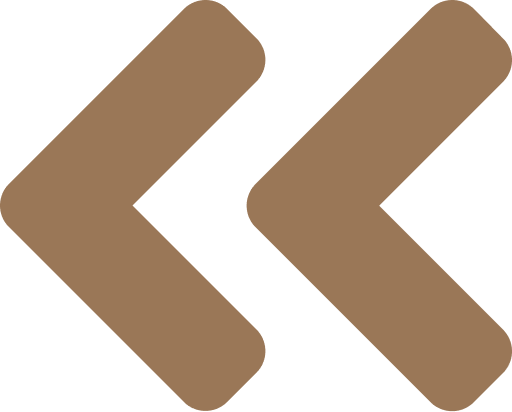
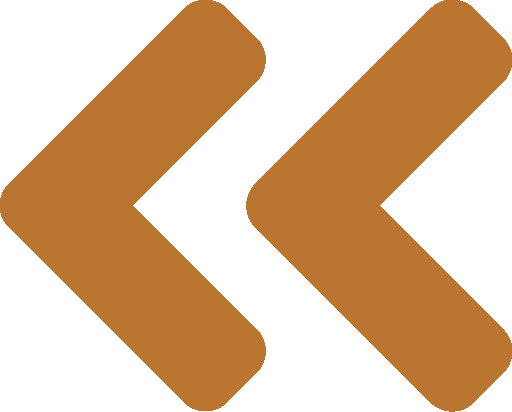
Refactoring colors and similars

diff --git a/index.html b/index.html
@@ -156,52 +156,54 @@
                         alt="Psicólogos do consultório Acolher">
                 </div>
             </div>
-            <div class="skill-description-container">
-                <h2>Depressão</h2>
-                <div class="skill-description">
-                    <p>
-                        Lorem ipsum dolor sit amet consectetur adipisicing elit. Sequi excepturi distinctio incidunt
-                        esse
-                        eaque, nam nihil aut, mollitia eos in nostrum assumenda explicabo cupiditate vero corrupti
-                        eveniet
-                        porro aperiam culpa.
-                    </p>
+            <div class="skills-main-container">
+                <div class="skill-description-container">
+                    <h2>Depressão</h2>
+                    <div class="skill-description">
+                        <p>
+                            Lorem ipsum dolor sit amet consectetur adipisicing elit. Sequi excepturi distinctio incidunt
+                            esse
+                            eaque, nam nihil aut, mollitia eos in nostrum assumenda explicabo cupiditate vero corrupti
+                            eveniet
+                            porro aperiam culpa.
+                        </p>
+                    </div>
                 </div>
-            </div>
-            <div class="skill-description-container">
-                <h2>Ansiedade</h2>
-                <div class="skill-description">
-                    <p>
-                        Lorem ipsum dolor sit amet consectetur adipisicing elit. Sequi excepturi distinctio incidunt
-                        esse
-                        eaque, nam nihil aut, mollitia eos in nostrum assumenda explicabo cupiditate vero corrupti
-                        eveniet
-                        porro aperiam culpa.
-                    </p>
+                <div class="skill-description-container">
+                    <h2>Ansiedade</h2>
+                    <div class="skill-description">
+                        <p>
+                            Lorem ipsum dolor sit amet consectetur adipisicing elit. Sequi excepturi distinctio incidunt
+                            esse
+                            eaque, nam nihil aut, mollitia eos in nostrum assumenda explicabo cupiditate vero corrupti
+                            eveniet
+                            porro aperiam culpa.
+                        </p>
+                    </div>
                 </div>
-            </div>
-            <div class="skill-description-container">
-                <h2>Pânico</h2>
-                <div class="skill-description">
-                    <p>
-                        Lorem ipsum dolor sit amet consectetur adipisicing elit. Sequi excepturi distinctio incidunt
-                        esse
-                        eaque, nam nihil aut, mollitia eos in nostrum assumenda explicabo cupiditate vero corrupti
-                        eveniet
-                        porro aperiam culpa.
-                    </p>
+                <div class="skill-description-container">
+                    <h2>Pânico</h2>
+                    <div class="skill-description">
+                        <p>
+                            Lorem ipsum dolor sit amet consectetur adipisicing elit. Sequi excepturi distinctio incidunt
+                            esse
+                            eaque, nam nihil aut, mollitia eos in nostrum assumenda explicabo cupiditate vero corrupti
+                            eveniet
+                            porro aperiam culpa.
+                        </p>
+                    </div>
                 </div>
-            </div>
-            <div class="skill-description-container">
-                <h2>Depressão</h2>
-                <div class="skill-description">
-                    <p>
-                        Lorem ipsum dolor sit amet consectetur adipisicing elit. Sequi excepturi distinctio incidunt
-                        esse
-                        eaque, nam nihil aut, mollitia eos in nostrum assumenda explicabo cupiditate vero corrupti
-                        eveniet
-                        porro aperiam culpa.
-                    </p>
+                <div class="skill-description-container">
+                    <h2>Depressão</h2>
+                    <div class="skill-description">
+                        <p>
+                            Lorem ipsum dolor sit amet consectetur adipisicing elit. Sequi excepturi distinctio incidunt
+                            esse
+                            eaque, nam nihil aut, mollitia eos in nostrum assumenda explicabo cupiditate vero corrupti
+                            eveniet
+                            porro aperiam culpa.
+                        </p>
+                    </div>
                 </div>
             </div>
         </div>

diff --git a/assets/css/global.css b/assets/css/global.css
@@ -15,13 +15,13 @@ a{
     --main-dimension-img: 30.8rem;
     
     /* Main colors */
-    --dark-tone: #9A7757;
-    --medium-tone: #E0CFB5;
-    --light-tone: #E6DAC8;
+    --dark-tone: #BA7530;/*#9A7757;*/
+    --medium-tone: #FFE599;
+    --light-tone: #F8EBAF;
     --lightness-tone: #FFFFFF;
 
     /* Border colors */
-    --dark-border: #9A7757;
+    --dark-border: #BA7530;
     --light-border: #C1C1C1;
 }
 
@@ -99,7 +99,7 @@ section{
     background-position: 14% 76%;
     width: 30.8rem;
     height: 30.8rem;
-    border: 0.8rem solid var(--dark-border);
+    border: 0.4rem solid var(--dark-border);
     border-radius: 50%;
 }
 
@@ -143,9 +143,8 @@ header, footer{
 header{
     position: fixed;
     top: 0;
-    background: linear-gradient(90deg,var(--dark-tone) 0%, var(--medium-tone) 85%);
+    background: linear-gradient(90deg,var(--dark-tone) 0%, var(--light-tone) 85%);
     z-index: 1000;
-    /* filter: saturate(2.2); */
 }    
 
 .logo-header{
@@ -165,7 +164,7 @@ header{
 
 /* Footer section */
 footer{
-    background: linear-gradient(90deg,var(--light-tone) 0%, var(--dark-tone) 100%);
+    background: linear-gradient(90deg,var(--light-tone) 0%, var(--dark-tone) 85%);
 }        
 
 .logo-footer{
@@ -284,7 +283,7 @@ nav ul li:hover{
 .about-us-img{
     width: 26rem;
     height: 26rem;
-    border: 0.8rem solid var(--dark-border);
+    border: 0.3rem solid var(--dark-border);
     border-radius: 50%;
 }
 
@@ -307,7 +306,7 @@ nav ul li:hover{
     width: 30.8rem;
     background-color: var(--light-tone);
     padding: 2rem 1rem 1rem;
-    border: 0.4rem solid var(--lightness-tone);
+    border: 0.3rem solid var(--dark-tone);
     border-radius: 2rem;
     overflow: hidden;
 }
@@ -349,7 +348,7 @@ nav ul li:hover{
 
 .slider-controls{
     display: flex;
-    border: 0.2rem solid var(--dark-border);
+    border: 0.3rem solid var(--dark-border);
     border-radius: 1.8rem;
     width: 11rem;
     height: 3rem;
@@ -381,6 +380,8 @@ nav ul li:hover{
     display: grid;
     grid-template-columns: repeat(3, 1fr);
     grid-template-rows: repeat(3, 1fr);
+    justify-items: center;
+    align-items: center;
     height: 29.5rem;
     position: relative;
 }
@@ -388,7 +389,7 @@ nav ul li:hover{
 .feeling-img{
     width: 9.7rem;
     height: 9.7rem;
-    border: 0.4rem solid var(--light-border);
+    border: 0.4rem solid var(--medium-tone);
     border-radius: 50%;
 }
 
@@ -408,7 +409,7 @@ nav ul li:hover{
     grid-column-end: 3;
     grid-row-start: 2;
     grid-row-end: 3;
-    border: 0.4rem solid var(--light-border);
+    border: 0.4rem solid var(--medium-tone);
     border-radius: 50%;
 }
 
@@ -434,6 +435,13 @@ nav ul li:hover{
     grid-column-end: 4;
     grid-row-start: 3;
     grid-row-end: 4;
+}
+
+.skills-main-container{
+    display: flex;
+    flex-direction: column;
+    align-items: center;
+    gap: 2rem;
 }
 
 .skill-description-container{
@@ -748,13 +756,6 @@ nav ul li:hover{
         height: 28rem;
     }
 
-    .feeling-img{
-        width: 11rem;
-        height: 11rem;
-        border: 0.4rem solid var(--light-border);
-        border-radius: 50%;
-    }
-
     .skill-description-container{
         width: 40rem;;
     }
@@ -872,6 +873,11 @@ nav ul li:hover{
         line-height: 2.5rem;
     }
 
+    .skills-main-container{
+        display: grid;
+        grid-template-columns: 1fr 1fr;
+    }
+
     /* Key-differentiators section */
     .key-differentiators-content{
         max-width: 900px;
@@ -881,10 +887,6 @@ nav ul li:hover{
         grid-template-rows: repeat(3, 1fr);
         height: 40rem;
         position: relative;
-    }
-
-    .feeling-img{
-        display: block;
     }
 
     .key-differentiator{
